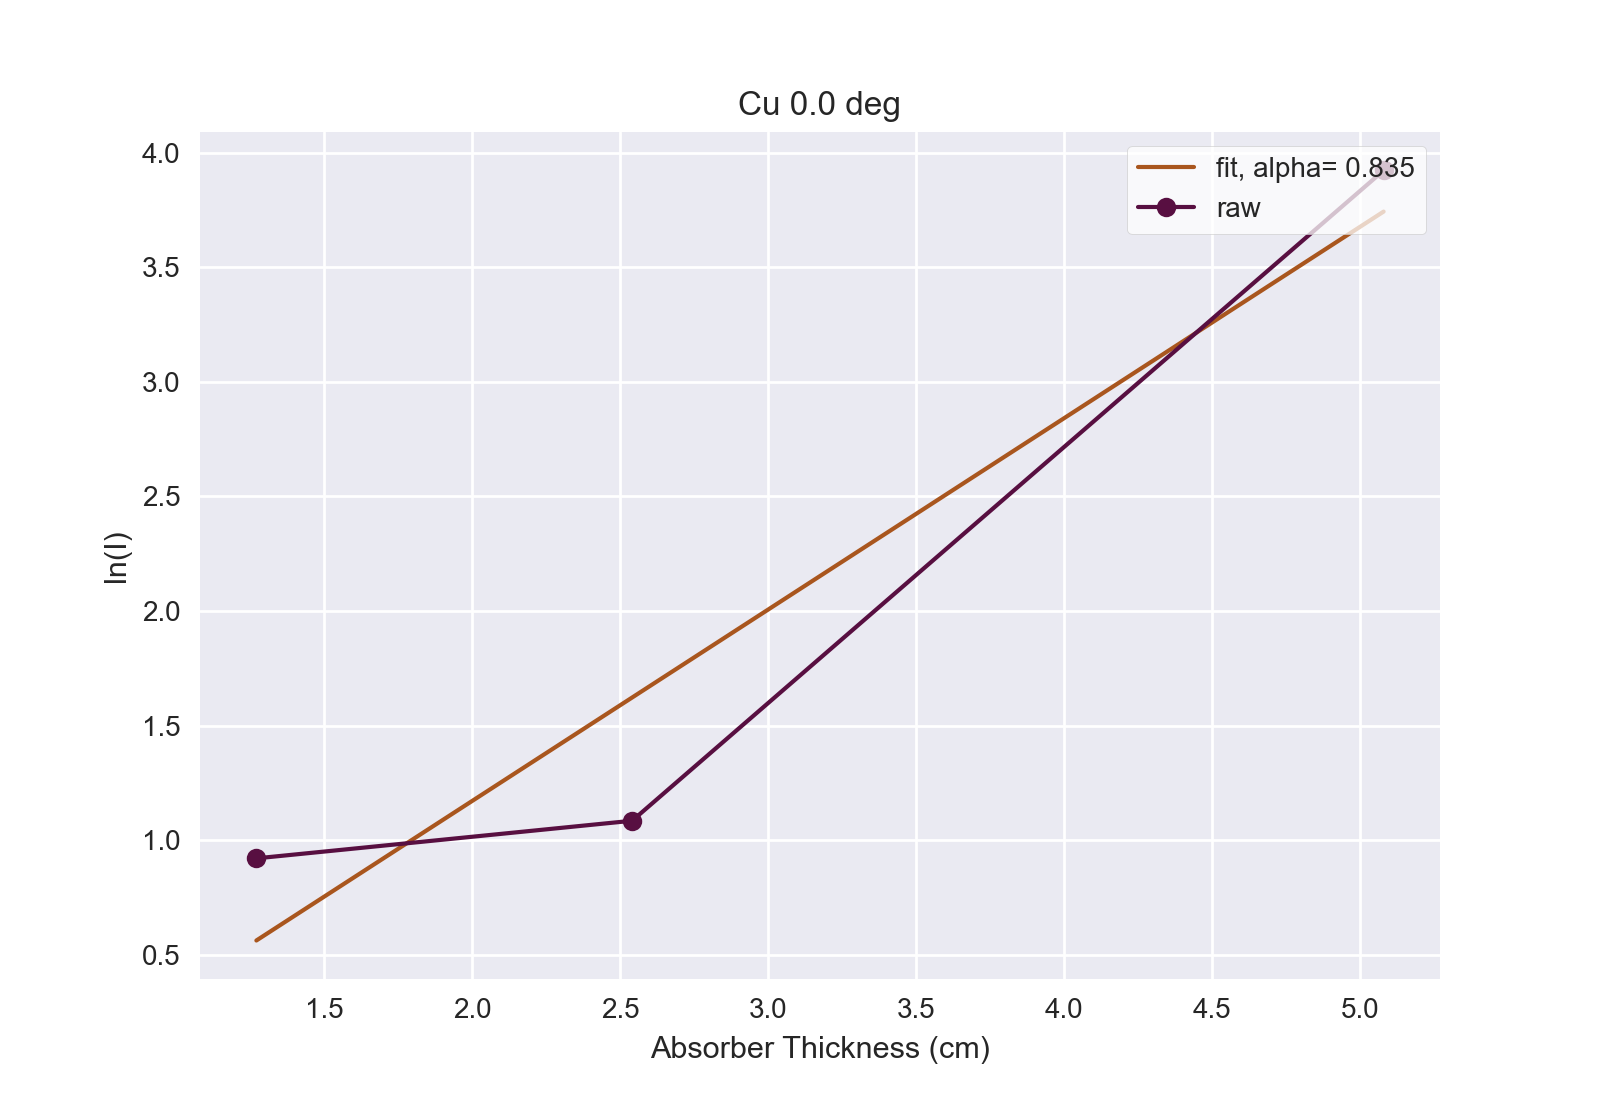
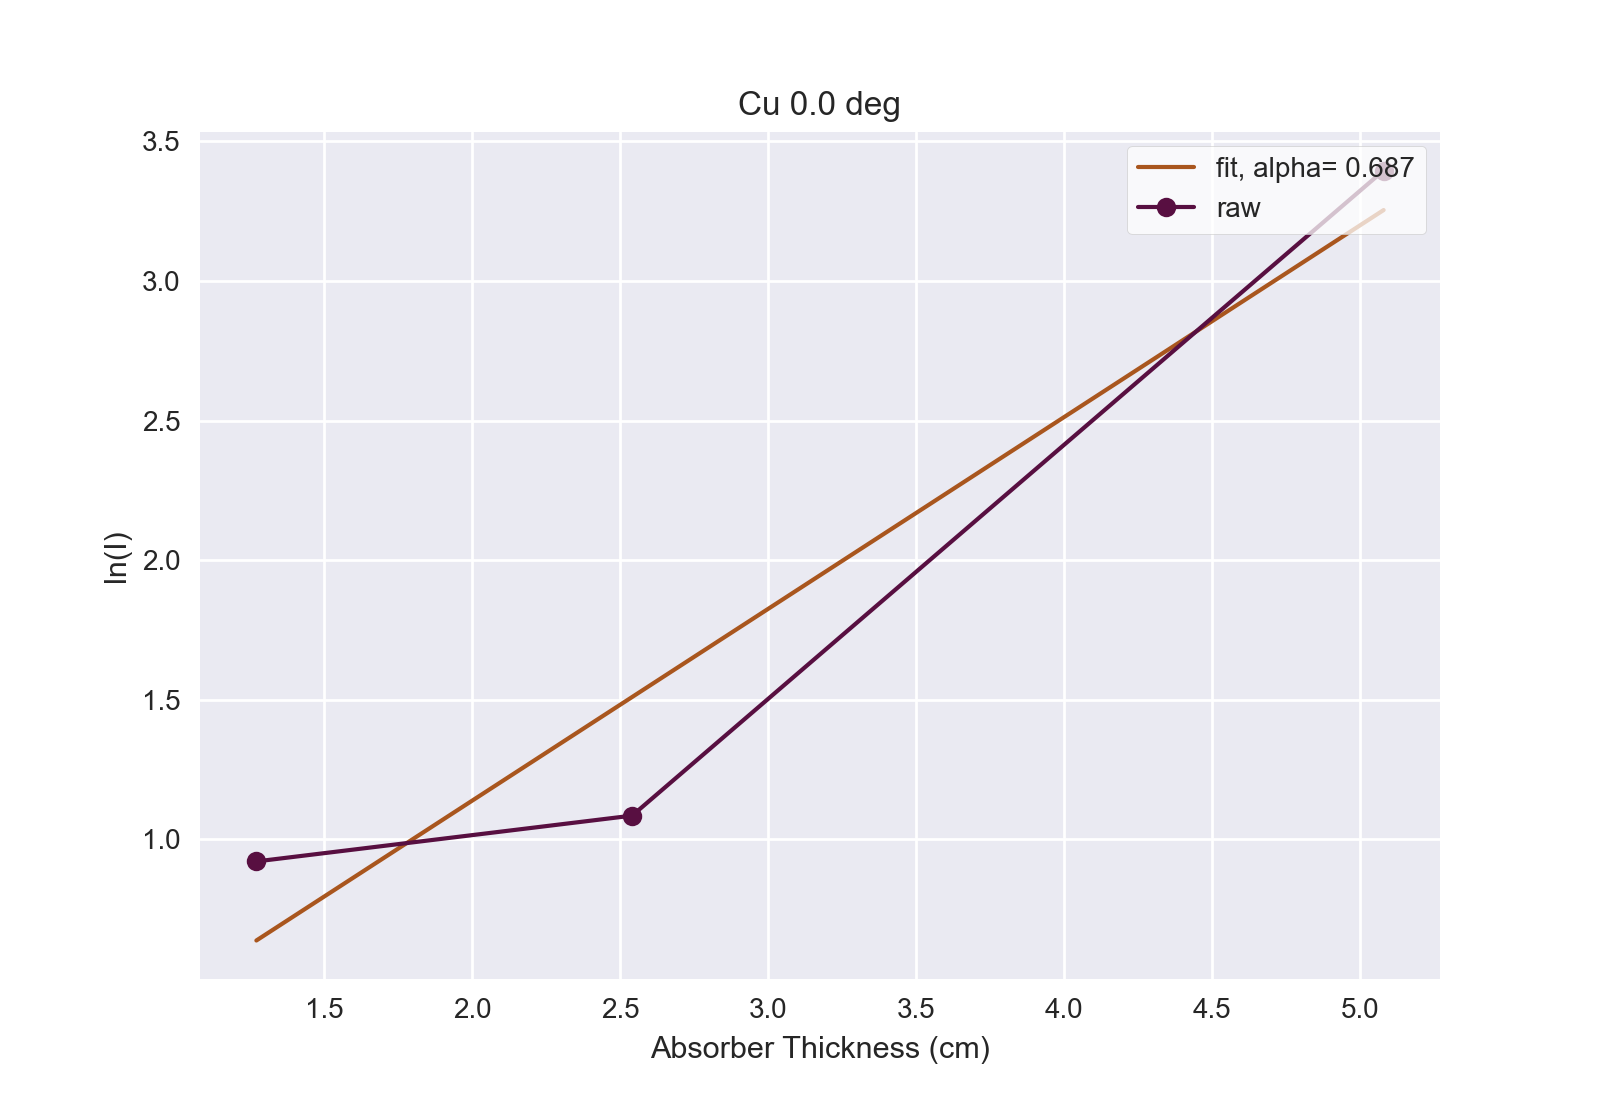
Initial results

diff --git a/process.py b/process.py
@@ -21,7 +21,7 @@ def process(file, sheet_name, print_flag=True):
 
 def main():
     prettyplot()
-    file = '/Users/valenetjong/Desktop/PHYS 3310/GammaRay/data/dat-14.xlsx'
+    file = '/Users/valenetjong/Desktop/PHYS 3310/GammaRay/data/dat-19.xlsx'
     sheets = ['Al', 'Cu','Pb']
     for sheet_name in sheets: 
         process(file, sheet_name)
